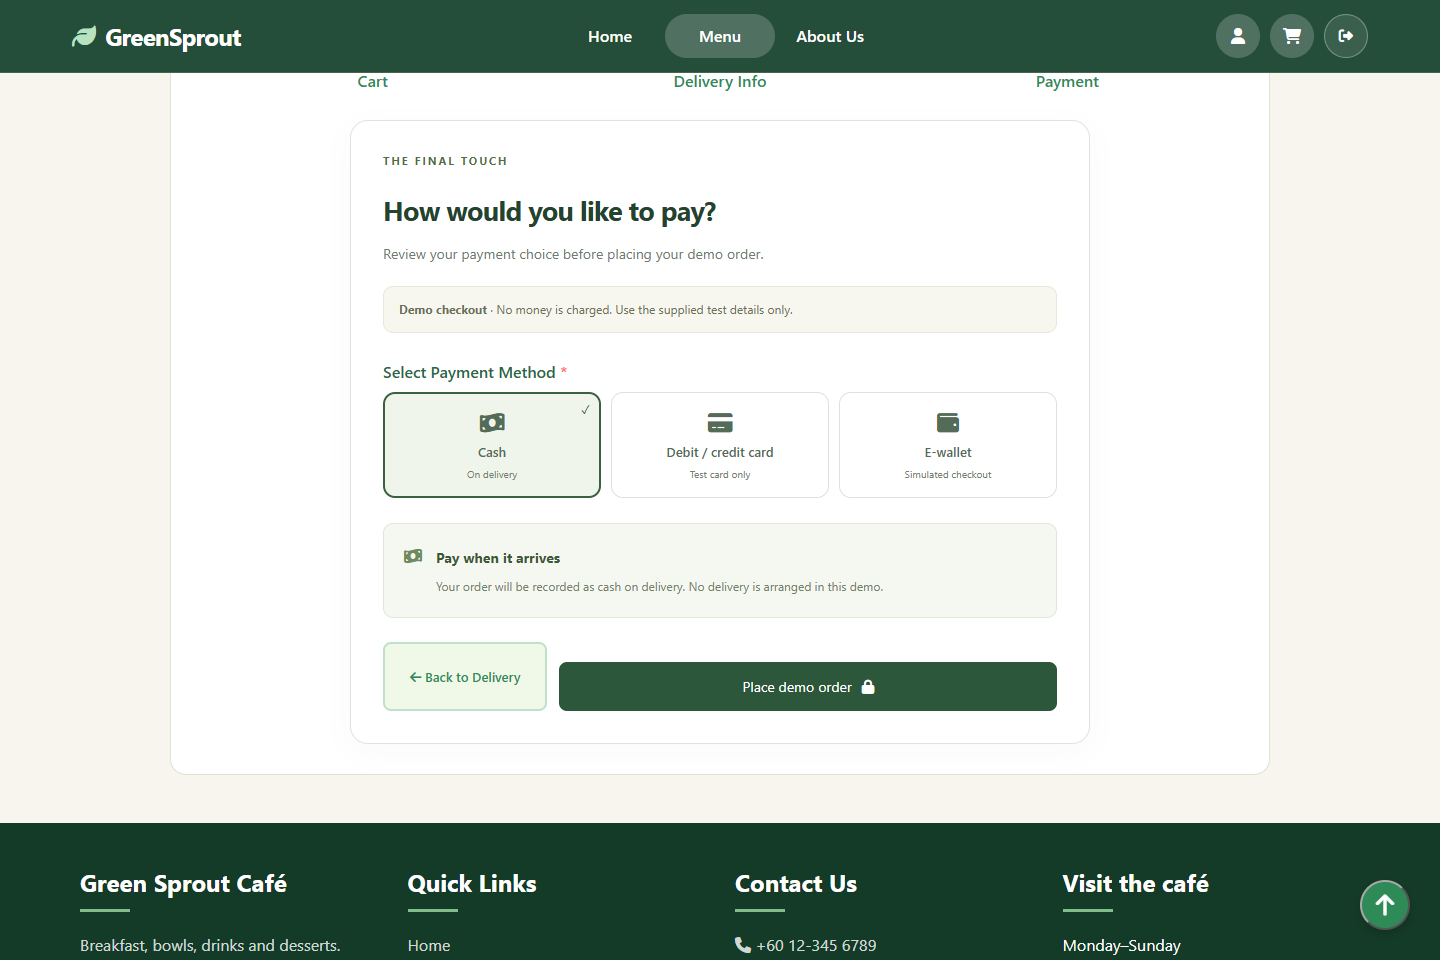
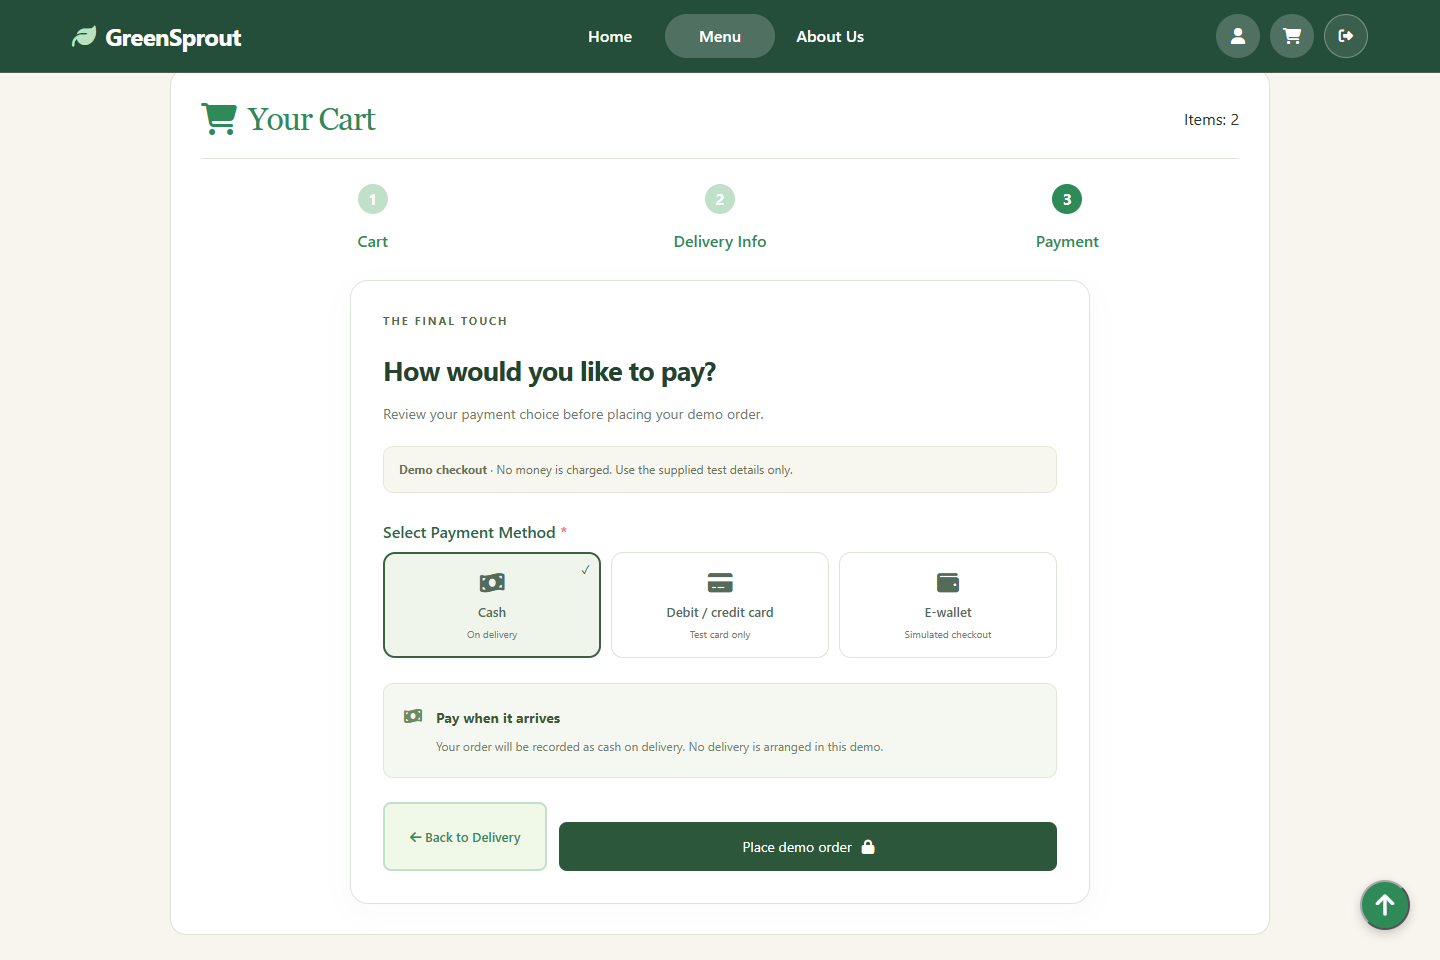
Refine screenshot framing and group desktop and mobile previews

diff --git a/README.md b/README.md
@@ -34,25 +34,27 @@ Start with [the menu page](public/menu.html), [checkout handler](public/create_o
 
 ## Screenshots
 
-### Menu
+Click a screenshot to view it at full size.
 
-![Customer menu](docs/screenshots/menu.png)
-
-| Login | Checkout |
+| Menu | Login |
 | --- | --- |
-| [![Login](docs/screenshots/login.png)](docs/screenshots/login.png) | [![Demo checkout](docs/screenshots/checkout.png)](docs/screenshots/checkout.png) |
+| [![Customer menu](docs/screenshots/menu.png)](docs/screenshots/menu.png) | [![Login](docs/screenshots/login.png)](docs/screenshots/login.png) |
 
-### Admin dashboard
+| Checkout | Admin dashboard |
+| --- | --- |
+| [![Demo checkout](docs/screenshots/checkout.png)](docs/screenshots/checkout.png) | [![Admin dashboard](docs/screenshots/admin.png)](docs/screenshots/admin.png) |
 
-![Admin dashboard](docs/screenshots/admin.png)
+### Mobile
 
 <table>
-  <tr><th width="65%">About</th><th width="35%">Mobile admin</th></tr>
+  <tr><th width="50%">Customer menu</th><th width="50%">Product management</th></tr>
   <tr>
-    <td align="center"><a href="docs/screenshots/about.png"><img src="docs/screenshots/about.png" alt="About GreenSprout" width="640"></a></td>
-    <td align="center"><a href="docs/screenshots/admin-mobile.png"><img src="docs/screenshots/admin-mobile.png" alt="Product management on mobile" width="180"></a></td>
+    <td align="center"><a href="docs/screenshots/menu-mobile.png"><img src="docs/screenshots/menu-mobile.png" alt="Customer menu on mobile" width="240"></a></td>
+    <td align="center"><a href="docs/screenshots/admin-mobile.png"><img src="docs/screenshots/admin-mobile.png" alt="Product management on mobile" width="240"></a></td>
   </tr>
 </table>
+
+[View the About page](docs/screenshots/about.png)
 
 ## Run locally
 
